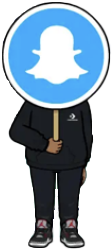
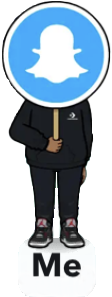
Adds Snapchat Me bitmoji on to user location onto map

diff --git a/src/screens/MapScreen.js b/src/screens/MapScreen.js
@@ -61,9 +61,15 @@ export default function MapScreen({ navigation }) {
       <MapView
         style={styles.map}
         region={currentRegion}
-        showsUserLocation={true}
+        showsUserLocation={false}
         showsMyLocationButton={true}
-      />
+      >
+        <Marker
+          style={[styles.bitmojiLocation, styles.shadowProp]}
+          coordinate={{ latitude: currentRegion.latitude, longitude: currentRegion.longitude }}
+          image={require("../../assets/snapchat/MapBitmojiMeIcon.png") }
+        />
+      </MapView>
       <View style={styles.mapTopContainer}>
         <View style={styles.mapTopContainerLeft}>
           <TouchableOpacity
@@ -145,6 +151,9 @@ const styles = StyleSheet.create({
     justifyContent: "center",
     marginLeft: 8,
   },
+  bitmojiLocation: {
+
+  },
   mapBottomContainer: {
     width: "100%",
     height: 70,
@@ -173,5 +182,11 @@ const styles = StyleSheet.create({
   searchIcon: {
     width: 35,
     height: 35,
+  },
+  shadowProp: {
+    shadowColor: '#171717',
+    shadowOffset: {width: -2, height: 4},
+    shadowOpacity: 0.2,
+    shadowRadius: 10,
   },
 });
